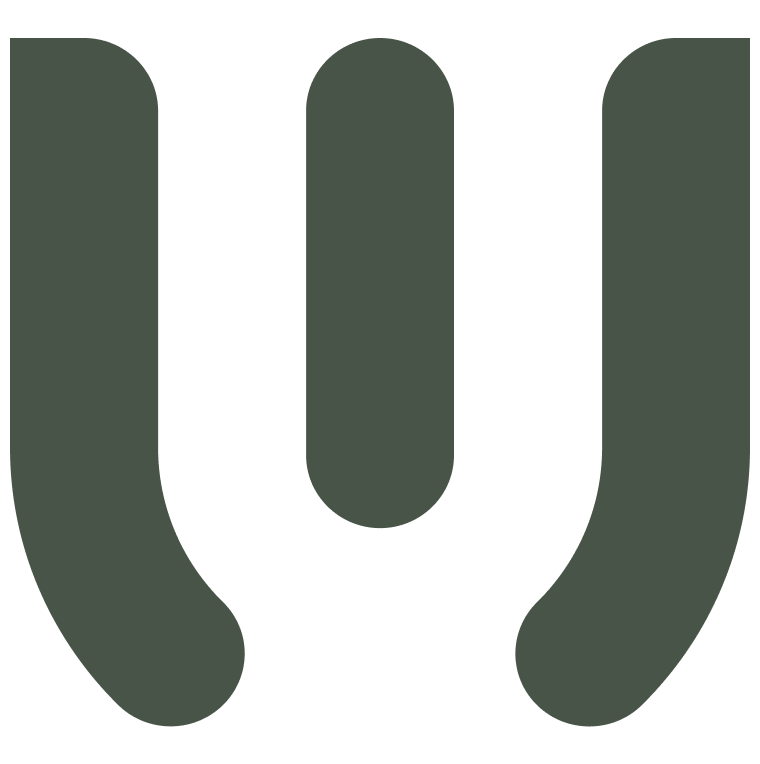
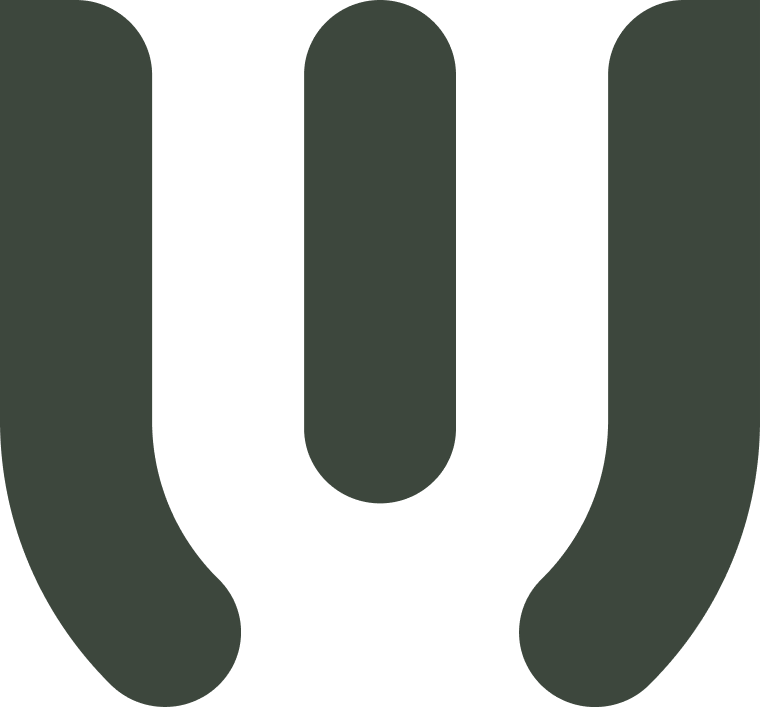
Entrepreneur Updates

Changed region(s): [[0.6658, 0.0, 1.0, 1.0], [0.0, 0.0, 0.3329, 1.0], [0.3934, 0.0, 0.6053, 0.7147]]

diff --git a/src/entrepreneur/template.html b/src/entrepreneur/template.html
@@ -25,19 +25,23 @@
 								<div class="en_col">
 									<i class="full_bg"></i>
 									<div class="en_col_shape">
-										<img class="load_img" data-src="../../images/entrepreneur/1.png" alt="">
+										<img class="load_img" data-src="../../images/entrepreneur/1.png" alt="Black Lotus Meditation App">
 									</div>
 								</div>
 							</div>
 						</a>
 
-						<a href="/entrepreneur/wildr" class="en_col_set" data-color="#354136" data-title="Wildr">
+						<a href="/entrepreneur/wildr" class="en_col_set left_align" data-color="#354136" data-title="Wildr">
 							<div class="en_col_ani full_bg">
 								<div class="en_borders has-svg full_bg"></div>
 								<div class="en_col">
 									<i class="full_bg"></i>
 									<div class="en_col_shape">
-										<img class="load_img" data-src="../../images/entrepreneur/2.png" alt="">
+										<svg width="760" height="708" viewBox="0 0 760 708" fill="none" xmlns="http://www.w3.org/2000/svg">
+											<path d="M594.95 707.055C616.253 707.055 635.636 698.549 649.359 684.655C717.49 617.173 759.808 524.077 760 421.246V420.585V0H684.096C642.258 0 608.096 33.6468 608.096 74.7601V420.585C608.096 482.586 582.571 538.727 541.212 579.462C527.49 592.977 519.045 611.785 519.045 632.389C519.045 673.597 553.015 707.055 594.95 707.055ZM152.096 420.49V74.7601C152.096 33.5523 117.838 0 76 0H0V420.49C0 523.51 42.2222 616.795 110.641 684.561C124.556 698.454 143.747 706.96 165.051 706.96C206.985 706.96 241.051 673.503 241.051 632.2C241.051 611.502 232.51 592.788 218.692 579.273C177.525 538.727 152.096 482.491 152.096 420.49Z" fill="#3D473D"/>
+											<path d="M380.096 0C421.934 0 456 33.6468 456 74.8546V428.524C456 469.826 421.838 503.379 380.096 503.379C338.258 503.379 304.096 469.732 304.096 428.524V74.8546C304 33.5523 338.258 0 380.096 0Z" fill="#3D473D"/>
+										</svg>
+
 									</div>
 								</div>
 							</div>
@@ -49,7 +53,7 @@
 								<div class="en_col">
 									<i class="full_bg"></i>
 									<div class="en_col_shape">
-										<img class="load_img" data-src="../../images/entrepreneur/3.png" alt="">
+										<img class="load_img" data-src="../../images/entrepreneur/3.png" alt="Sadhana App">
 									</div>
 								</div>
 							</div>
@@ -61,7 +65,7 @@
 								<div class="en_col large_img">
 									<i class="full_bg"></i>
 									<div class="en_col_shape">
-										<img class="load_img" data-src="../../images/entrepreneur/4.png" alt="">
+										<img class="load_img" data-src="../../images/entrepreneur/4.png" alt="Life Coaching">
 									</div>
 								</div>
 							</div>
@@ -79,13 +83,20 @@
 							</div>
 						</a>
 
-						<a href="/entrepreneur/serial-entrepreneur" class="en_col_set" data-color="#1e1824" data-title="Serial Entrepreneur">
+						<a href="/entrepreneur/serial-entrepreneur" class="en_col_set left_less_align" data-color="#1e1824" data-title="Serial Entrepreneur">
 							<div class="en_col_ani full_bg">
 								<div class="en_borders has-svg full_bg"></div>
 								<div class="en_col">
 									<i class="full_bg"></i>
 									<div class="en_col_shape">
-										<img class="load_img" data-src="../../images/entrepreneur/6.png" alt="">
+										<svg width="501" height="501" viewBox="0 0 501 501" fill="none" xmlns="http://www.w3.org/2000/svg">
+											<path d="M250.3 0C112.1 0 0 112.1 0 250.3C0 353.5 62.4 442 151.5 480.4C152.3 480.7 153 481 153.8 481.3C154.6 481.6 155.5 481.8 156.6 482.1C180.4 489.5 202.9 480.8 202.9 480.8C271.8 463.3 262.9 356.1 262.9 356.1H250.4C254.8 396.3 235.4 429.1 235.4 429.1C211.9 476 172 469.2 158.2 465.1C74.7 429.6 16.1 346.8 16.1 250.3C16.1 121.4 120.6 17 249.4 17C378.3 17 482.7 121.5 482.7 250.3C482.7 368.2 395.3 465.7 281.7 481.4H281.8C281.8 481.4 254.1 489 238.4 491C228.4 492.3 212.5 494.5 202.3 496C217.8 499 233.8 500.6 250.2 500.6C388.4 500.6 500.5 388.5 500.5 250.3C500.6 112.1 388.5 0 250.3 0Z" fill="#3A353C"/>
+											<path d="M105.8 199.5C104.9 199.4 104 199.4 103 199.3C103 199.3 84.2002 349.4 235.5 348.4C239.7 348.4 244 348.3 248.5 348.1C248.5 348.1 278 207.7 105.8 199.3C105.8 199.3 105.8 199.4 105.8 199.5Z" fill="#3A353C"/>
+											<path d="M408.8 199.3C236.6 207.7 266.1 348.1 266.1 348.1C428.5 356.1 408.8 199.3 408.8 199.3Z" fill="#3A353C"/>
+											<path d="M262.8 110.9C172 200.7 253.8 266.3 253.8 266.3C354.4 186.2 262.8 110.9 262.8 110.9Z" fill="#3A353C"/>
+											<path d="M377 138.9L312 169.3L319 208.6C347.4 183.3 377 182.9 377 182.9V138.9Z" fill="#3A353C"/>
+											<path d="M135.1 138.9V182.9C135.1 182.9 164.7 183.4 193.1 208.6L200.1 169.3L135.1 138.9Z" fill="#3A353C"/>
+										</svg>
 									</div>
 								</div>
 							</div>

diff --git a/src/entrepreneur/wildr/views.html b/src/entrepreneur/wildr/views.html
@@ -3,11 +3,11 @@
 	<div class="en_head_set full_bg flex align-items-center">
 
 		<div class="en_shape shape_a">
-			<img class="load_img" data-src="../../../images/entrepreneur/2.png" alt="" data-scroll data-scroll-direction="horizontal" data-scroll-speed="2">
+			<img class="load_img" data-src="../../../images/entrepreneur/2.png" style="opacity: 0.8;" alt="Wildr" data-scroll data-scroll-direction="horizontal" data-scroll-speed="2">
 		</div>
 
 		<div class="en_shape shape_b">
-			<img class="load_img" data-src="../../../images/entrepreneur/2.png" alt="" data-scroll data-scroll-direction="horizontal" data-scroll-speed="-2">
+			<img class="load_img" data-src="../../../images/entrepreneur/2.png" style="opacity: 0.8;" alt="Wildr" data-scroll data-scroll-direction="horizontal" data-scroll-speed="-2">
 		</div>
 
 		<div class="en_head">
@@ -40,11 +40,11 @@
 						<i class="load_bg_alt" data-src="../../images/j_border_h.png"></i>
 						<i class="load_bg_alt" data-src="../../images/j_border_h.png"></i>
 					</div>
-					<i class="full_bg load_bg" data-src="../../../images/entrepreneur/wildr-1.jpeg"></i>
+					<i class="full_bg load_bg" data-src="../../../images/entrepreneur/wildr-2.jpeg"></i>
 				</div>
 				<div class="en_img_caption">
 					<span class="micro">IMAGE</span>
-					<span class="micro">At an ashram event</span>
+					<span class="micro">Wildr logo</span>
 				</div>
 			</div>
 		</div>
@@ -73,11 +73,11 @@
 						<i class="load_bg_alt" data-src="../../images/j_border_h.png"></i>
 						<i class="load_bg_alt" data-src="../../images/j_border_h.png"></i>
 					</div>
-					<i class="full_bg load_bg" data-src="../../../images/entrepreneur/wildr-2.jpeg"></i>
+					<i class="full_bg load_bg" data-src="../../../images/entrepreneur/wildr-1.jpeg"></i>
 				</div>
 				<div class="en_img_caption">
 					<span class="micro">IMAGE</span>
-					<span class="micro">At an ashram event</span>
+					<span class="micro">Do not feed the trolls</span>
 				</div>
 			</div>
 		</div>

diff --git a/src/app.js b/src/app.js
@@ -3816,7 +3816,7 @@ function entrepreneurPage(){
 
 				lastActive = 5
 
-				$('.en_col_set').removeClass('bigger').css('width', '')
+				// $('.en_col_set').removeClass('bigger').css('width', '')
 
 				isColsFlickity = false;
 
@@ -3870,15 +3870,15 @@ function entrepreneurPage(){
 				$('.en_col_set').each(function(i){
 					let $this = $(this);
 					if( i != index ) {
-						gsap.to($this, 0.3, {width: parseFloat(20 * sizes.height) / 100, ease: 'power3.out' })
+						// gsap.to($this, 0.3, {width: parseFloat(20 * sizes.height) / 100, ease: 'power3.out' })
 					}
 				})
 
-				gsap.to(selected, 0.7, {width: parseFloat(40 * sizes.height) / 100, ease: 'power4.out', onUpdate: function(){enCarousel.resize()}, onComplete: function(){
-					enCarousel.resize()
-					$('.en_col_set').removeClass('bigger').css('width', '')
-					selected.addClass('bigger')
-				} })
+				// gsap.to(selected, 0.7, {width: parseFloat(40 * sizes.height) / 100, ease: 'power4.out', onUpdate: function(){enCarousel.resize()}, onComplete: function(){
+					// enCarousel.resize()
+					// $('.en_col_set').removeClass('bigger').css('width', '')
+					// selected.addClass('bigger')
+				// } })
 
 			})
 

diff --git a/src/app.css b/src/app.css
@@ -1882,8 +1882,7 @@ body:not(#monk) .en_sec_col:nth-child(3) {
 	height: calc(var(--vh, 1vh)*60.3703);
 }
 
-body:not(.progress) .en_col_set:not(.no-tranist),
-body:not(.progress) .en_col_set:not(.no-tranist) .en_col_shape {
+body:not(.progress) .en_col_set:not(.no-tranist) {
 	transition: all 700ms cubic-bezier(0.16, 1, 0.3, 1);
 }
 
@@ -2007,6 +2006,24 @@ body:not(.progress) .en_col_set:not(.no-tranist) .en_col_shape {
 	display: flex;
 	align-items: center;
 	justify-content: center;
+}
+
+.en_col_set.left_align .en_col_shape svg {
+	transform: translateX(12vh);
+	top: 1vh;
+}
+
+.en_col_set.left_less_align .en_col_shape svg {
+	transform: translateX(5vh);
+	top: 1vh;
+}
+
+.en_col_shape svg {
+	height: 80%;
+	width: auto;
+	max-width: unset;
+	flex-shrink: 0;
+	position: relative;
 }
 
 .en_col_shape img {
@@ -2881,7 +2898,7 @@ body.opened .author_nav_set,
 		left: 20%;
 	}
 	.en_col_set {
-		width: calc(var(--vh, 1vh)*20);
+		width: calc(var(--vh, 1vh)*24);
 		margin: 0 20px;
 		transition: none !important;
 		-moz-transition: none !important;

diff --git a/src/entrepreneur/life-coaching/views.html b/src/entrepreneur/life-coaching/views.html
@@ -3,11 +3,11 @@
 	<div class="en_head_set full_bg flex align-items-center">
 
 		<div class="en_shape shape_a" style="transform: scaleX(-1);">
-			<img class="load_img" data-src="../../../images/entrepreneur/4.png" alt="" data-scroll data-scroll-direction="horizontal" data-scroll-speed="-2">
+			<img class="load_img" data-src="../../../images/entrepreneur/4.png" alt="Life Coaching" data-scroll data-scroll-direction="horizontal" data-scroll-speed="-2">
 		</div>
 
 		<div class="en_shape shape_b">
-			<img class="load_img" data-src="../../../images/entrepreneur/4.png" alt="" data-scroll data-scroll-direction="horizontal" data-scroll-speed="-2">
+			<img class="load_img" data-src="../../../images/entrepreneur/4.png" alt="Life Coaching" data-scroll data-scroll-direction="horizontal" data-scroll-speed="-2">
 		</div>
 
 		<div class="en_head">

diff --git a/src/entrepreneur/black-lotus-app/views.html b/src/entrepreneur/black-lotus-app/views.html
@@ -3,11 +3,11 @@
 	<div class="en_head_set full_bg flex align-items-center">
 
 		<div class="en_shape shape_a">
-			<img class="load_img" data-src="../../../images/entrepreneur/1.png" alt="" data-scroll data-scroll-direction="horizontal" data-scroll-speed="2">
+			<img class="load_img" data-src="../../../images/entrepreneur/1.png" alt="Black Lotus Meditation App" data-scroll data-scroll-direction="horizontal" data-scroll-speed="2">
 		</div>
 
 		<div class="en_shape shape_b">
-			<img class="load_img" data-src="../../../images/entrepreneur/1.png" alt="" data-scroll data-scroll-direction="horizontal" data-scroll-speed="-2">
+			<img class="load_img" data-src="../../../images/entrepreneur/1.png" alt="Black Lotus Meditation App" data-scroll data-scroll-direction="horizontal" data-scroll-speed="-2">
 		</div>
 
 		<div class="en_head">

diff --git a/src/entrepreneur/sri-badrika-ashram/views.html b/src/entrepreneur/sri-badrika-ashram/views.html
@@ -3,11 +3,11 @@
 	<div class="en_head_set full_bg flex align-items-center">
 
 		<div class="en_shape shape_a">
-			<img class="load_img" data-src="../../../images/entrepreneur/3.png" alt="" data-scroll data-scroll-direction="horizontal" data-scroll-speed="2">
+			<img class="load_img" data-src="../../../images/entrepreneur/3.png" alt="Sri Badrika Ashram" data-scroll data-scroll-direction="horizontal" data-scroll-speed="2">
 		</div>
 
 		<div class="en_shape shape_b">
-			<img class="load_img" data-src="../../../images/entrepreneur/3.png" alt="" data-scroll data-scroll-direction="horizontal" data-scroll-speed="-2">
+			<img class="load_img" data-src="../../../images/entrepreneur/3.png" alt="Sri Badrika Ashram" data-scroll data-scroll-direction="horizontal" data-scroll-speed="-2">
 		</div>
 
 		<div class="en_head">

diff --git a/src/entrepreneur/sadhana-app/views.html b/src/entrepreneur/sadhana-app/views.html
@@ -3,11 +3,11 @@
 	<div class="en_head_set full_bg flex align-items-center">
 
 		<div class="en_shape shape_a">
-			<img class="load_img" data-src="../../images/entrepreneur/3.png" alt="" data-scroll data-scroll-direction="horizontal" data-scroll-speed="2">
+			<img class="load_img" data-src="../../images/entrepreneur/3.png" alt="Sadhana App" data-scroll data-scroll-direction="horizontal" data-scroll-speed="2">
 		</div>
 
 		<div class="en_shape shape_b">
-			<img class="load_img" data-src="../../images/entrepreneur/3.png" alt="" data-scroll data-scroll-direction="horizontal" data-scroll-speed="-2">
+			<img class="load_img" data-src="../../images/entrepreneur/3.png" alt="Sadhana App" data-scroll data-scroll-direction="horizontal" data-scroll-speed="-2">
 		</div>
 
 		<div class="en_head">

diff --git a/src/entrepreneur/serial-entrepreneur/views.html b/src/entrepreneur/serial-entrepreneur/views.html
@@ -3,11 +3,11 @@
 	<div class="en_head_set full_bg flex align-items-center">
 
 		<div class="en_shape shape_a">
-			<img class="load_img" data-src="../../../images/entrepreneur/6.png" alt="" data-scroll data-scroll-direction="horizontal" data-scroll-speed="2">
+			<img class="load_img" data-src="../../../images/entrepreneur/6.png" alt="Os.me" data-scroll data-scroll-direction="horizontal" data-scroll-speed="2">
 		</div>
 
 		<div class="en_shape shape_b">
-			<img class="load_img" data-src="../../../images/entrepreneur/6.png" alt="" data-scroll data-scroll-direction="horizontal" data-scroll-speed="-2">
+			<img class="load_img" data-src="../../../images/entrepreneur/6.png" alt="Os.me" data-scroll data-scroll-direction="horizontal" data-scroll-speed="-2">
 		</div>
 
 		<div class="en_head">
